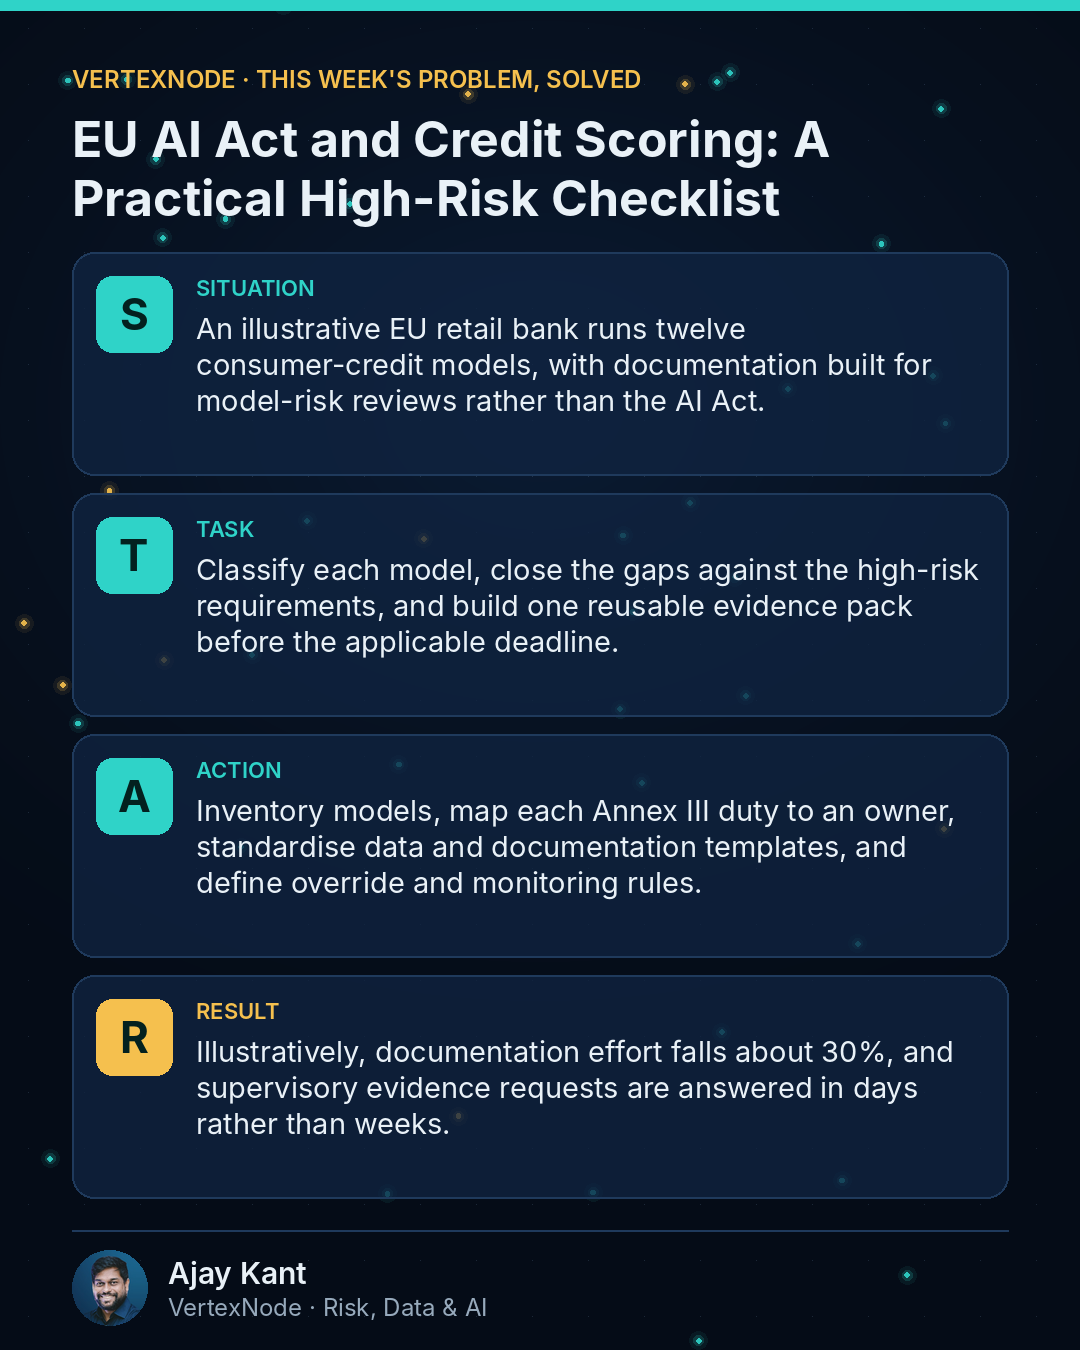
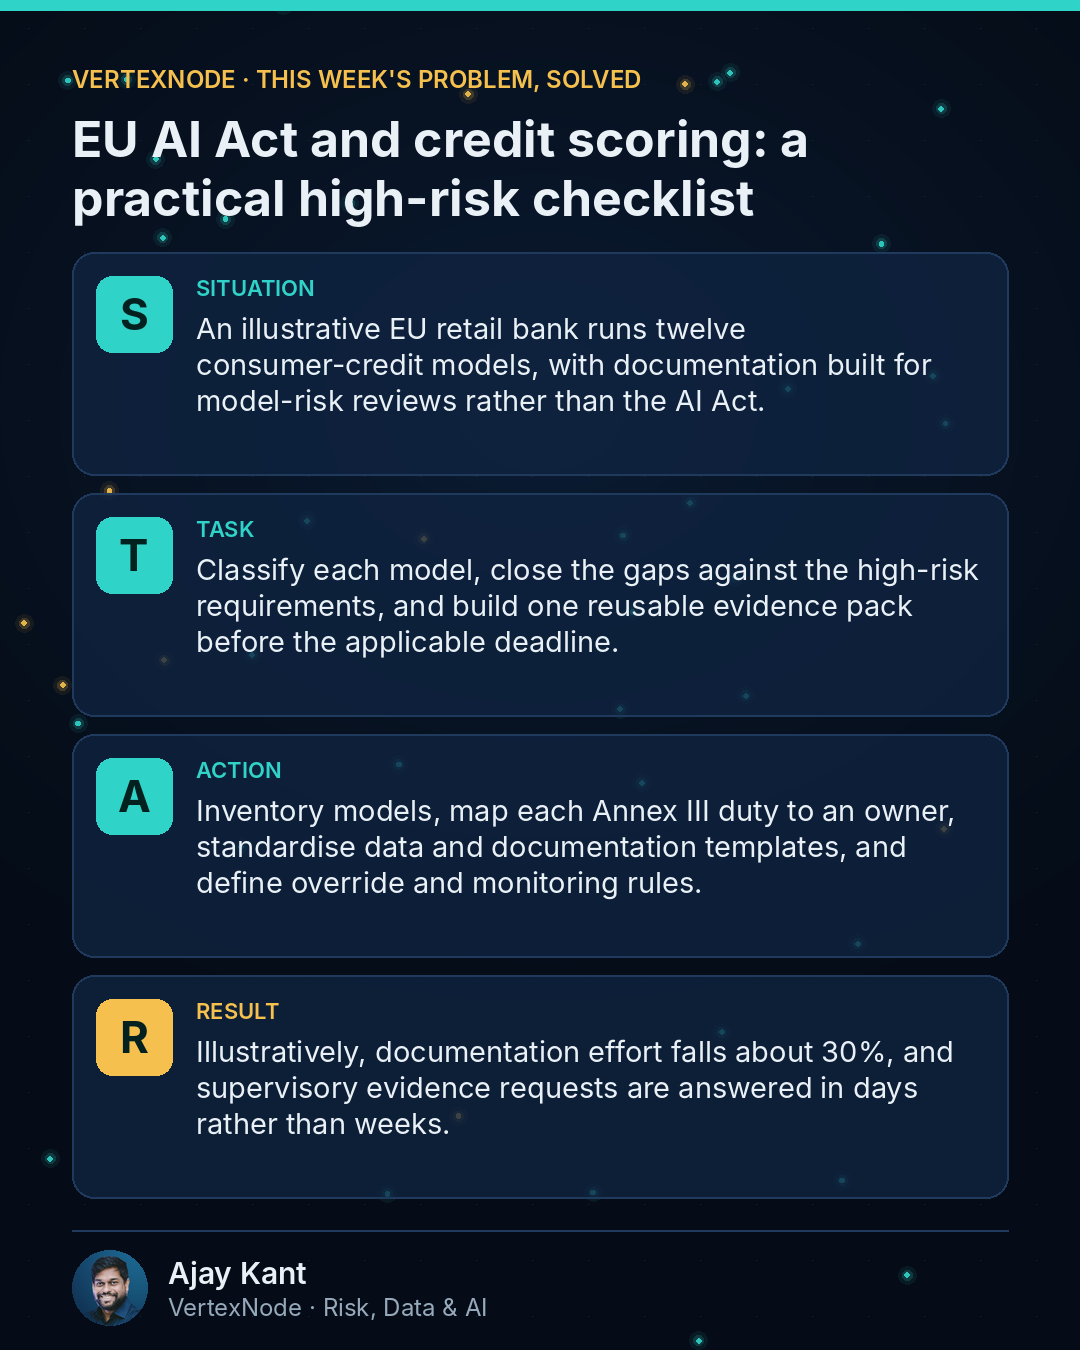
Publish 4 VertexNode articles (UK APP scams, EU AI Act, fraud model ROI, EU instant payments); LinkedIn on hold; writer agent uses sentence-case titles
Claude-Session: https://claude.ai/code/session_01PApz595udu2nZo8zVHWhG7

Changed region(s): [[0.2444, 0.0933, 0.7639, 0.1867], [0.1222, 0.1244, 0.1833, 0.1556], [0.0611, 0.1244, 0.0917, 0.1867]]

diff --git a/agents/writer_agent.py b/agents/writer_agent.py
@@ -44,7 +44,7 @@ ANONYMISED NOTES FROM THE AUTHOR (optional; use the ideas, never names or number
 
 Return ONLY a JSON object with exactly these keys:
 {{
-  "title": "headline, max 12 words",
+  "title": "headline in sentence case (capital only on the first word, proper nouns and acronyms), max 12 words",
   "category": "one of: Fraud Risk | Credit Risk | Automation | Data Analytics | GenAI | Team & Process",
   "summary": "2 sentences for the Weekly Updates page",
   "scenario": "who the illustrative STAR organisation is, e.g. 'a mid-sized Indian NBFC'",

diff --git a/content/articles/2026-11-01-ten-seconds-to-decide-fraud-controls-for-eu-instant-payments.md b/content/articles/2026-11-01-ten-seconds-to-decide-fraud-controls-for-eu-instant-payments.md
@@ -1,9 +1,9 @@
 ---
-title: 'Ten Seconds to Decide: Fraud Controls for EU Instant Payments'
+title: 'Ten seconds to decide: fraud controls for EU instant payments'
 slug: ten-seconds-to-decide-fraud-controls-for-eu-instant-payments
 date: '2026-11-01'
 category: Fraud Risk
-status: draft
+status: published
 test_run: false
 market: EU
 scenario: a composite mid-sized euro-area retail bank (illustrative, not a real institution)
@@ -88,22 +88,23 @@ myth_fact:
   explain: For instant payments the Regulation replaces per-transaction screening against EU targeted financial sanctions with verification of the bank's own customers at least daily, and after new listings.
 image: media/ten-seconds-to-decide-fraud-controls-for-eu-instant-payments/star-card.png
 factcheck:
-  status: needs-review
-  summary: '7 verified, 4 corrected · Needs review: PSD3/PSR formal adoption status: the Council published its first-reading texts on 21 October 2026 and adoption in the Official Journal was still pending in late October 2026. Re-check before publication and update the wording if the PSR is adopted.; Check whether a 2026 edition of the joint EBA/ECB payment fraud report has been published since the 15 December 2025 edition. I found no newer edition.; I could not open the operative text of Article 5a of Regulation (EU) 2024/886 in the search tool. The ten-second rule is confirmed by multiple secondary sources, including a Spanish consumer portal and legal summaries. A human should confirm the exact wording against EUR-Lex if citing the article number.; The STAR ''about a third'' fraud reduction and the ''fewer than 1% challenged'' figure are assumptions. Keep them labelled as illustrative.'
+  status: verified
+  summary: 'Agent fact-check plus human review on 1 Nov 2026: Instant Payments Regulation (EU) 2024/886 ten-second rule and the 9 January / 9 October 2025 dates confirmed; the EBA/ECB December 2025 report is the latest edition; PSR adoption is correctly described as pending. Benefit figures are a labelled illustrative model.'
+  agent_summary: '7 verified, 4 corrected · Needs review: PSD3/PSR formal adoption status: the Council published its first-reading texts on 21 October 2026 and adoption in the Official Journal was still pending in late October 2026. Re-check before publication and update the wording if the PSR is adopted.; Check whether a 2026 edition of the joint EBA/ECB payment fraud report has been published since the 15 December 2025 edition. I found no newer edition.; I could not open the operative text of Article 5a of Regulation (EU) 2024/886 in the search tool. The ten-second rule is confirmed by multiple secondary sources, including a Spanish consumer portal and legal summaries. A human should confirm the exact wording against EUR-Lex if citing the article number.; The STAR ''about a third'' fraud reduction and the ''fewer than 1% challenged'' figure are assumptions. Keep them labelled as illustrative.'
 sources:
 - title: EUR-Lex, Regulation (EU) 2024/886 (Instant Payments Regulation)
   url: https://eur-lex.europa.eu/eli/reg/2024/886/oj
 - title: European Central Bank, Instant Payments Regulation
   url: https://www.ecb.europa.eu/paym/retail/instant_payments/html/instant_payments_regulation.en.html
-- title: Central Bank of Cyprus, Application of Instant Payments Regulation
+- title: Central Bank of Cyprus, Application of the Instant Payments Regulation
   url: https://www.centralbank.cy/en/announcements/application-of-instant-payments-regulation-eu-2024-886-10-12-2024
-- title: European Payments Council, Verification Of Payee Scheme Rulebook
+- title: European Payments Council, Verification of Payee scheme rulebook
   url: https://www.europeanpaymentscouncil.eu/document-library/rulebooks/verification-payee-scheme-rulebook
-- title: ECB/EBA press release, Joint EBA-ECB report on payment fraud, 15 Dec 2025
+- title: EBA and ECB, joint report on payment fraud (December 2025)
   url: https://www.bde.es/f/webbe/GAP/Secciones/SalaPrensa/ComunicadosBCE/NotasInformativasBCE/25/presbce2025-151en.pdf
-- title: EUR-Lex, Regulation (EU) 2022/2554 (DORA), Article 64
+- title: EUR-Lex, Regulation (EU) 2022/2554 (DORA)
   url: https://eur-lex.europa.eu/eli/reg/2022/2554/oj
-- title: 'Norton Rose Fulbright, PSD3 and PSR: provisional agreement to 2026'
+- title: Norton Rose Fulbright, PSD3 and PSR, from provisional agreement to 2026
   url: https://www.nortonrosefulbright.com/en/knowledge/publications/cedd39c6/psd3-and-psr-from-provisional-agreement-to-2026-readiness
 linkedin_post: 'Ten seconds. That is how long a euro-area bank now has to make an instant payment available to the payee, and it is roughly how long my laptop needs to decide it urgently needs an update.
 
@@ -126,6 +127,7 @@ linkedin_post: 'Ten seconds. That is how long a euro-area bank now has to make a
 
   How does your team measure the cost of a challenge today: in euros, or in gut feel?'
 linkedin_shared: false
+linkedin_hold: true
 ---
 
 ## The problem

diff --git a/content/articles/2026-11-01-fraud-model-roi-look-past-the-detection-rate.md b/content/articles/2026-11-01-fraud-model-roi-look-past-the-detection-rate.md
@@ -3,7 +3,7 @@ title: 'Fraud model ROI: look past the detection rate'
 slug: fraud-model-roi-look-past-the-detection-rate
 date: '2026-11-01'
 category: Fraud Risk
-status: draft
+status: published
 test_run: false
 market: Global
 scenario: a mid-sized multi-country retail bank (a composite, not a real institution)
@@ -88,22 +88,21 @@ myth_fact:
   explain: It is a survey-based estimate for the 42 markets surveyed, not audited bank-reported losses, so it indicates scale rather than a ledger of fraud.
 image: media/fraud-model-roi-look-past-the-detection-rate/star-card.png
 factcheck:
-  status: needs-review
-  summary: '4 corrected, 3 verified · Needs review: GASA appears to have run a 2026 global survey (58,900 respondents, 42 markets), and regional 2026 reports (US, Europe, Asia, Brazil, Spain) have been published. I could not find the 2026 global headline figures (share of adults scammed, total losses). Before publishing, check gasa.org for a Global State of Scams 2026 release and update the 57% and USD 442 billion figures and the year if it is out.; GASA''s 2025 report also gives a broader ''encountered a scam'' measure of about seven in ten adults. The article uses the narrower ''experienced a scam'' figure of 57%, which matches GASA''s headline wording. The full report is member-only, so I checked the figures through GASA''s press release and homepage and not the full PDF.; The scenario inputs (USD 30/hour analyst cost, USD 12 friction cost, 6 minutes per alert, USD 40k run cost, alert volumes) are invented assumptions and are labelled illustrative. They are not benchmarked against any
-    external source.'
+  status: verified
+  summary: 'Agent fact-check plus human review on 1 Nov 2026: GASA Global State of Scams 2025 figures (57% of adults, about USD 442 billion) confirmed as the latest global edition; only regional 2026 editions exist so far. All bank figures are a labelled illustrative model.'
+  agent_summary: '4 corrected, 3 verified · Needs review: GASA appears to have run a 2026 global survey (58,900 respondents, 42 markets), and regional 2026 reports (US, Europe, Asia, Brazil, Spain) have been published. I could not find the 2026 global headline figures (share of adults scammed, total losses). Before publishing, check gasa.org for a Global State of Scams 2026 release and update the 57% and USD 442 billion figures and the year if it is out.; GASA''s 2025 report also gives a broader ''encountered a scam'' measure of about seven in ten adults. The article uses the narrower ''experienced a scam'' figure of 57%, which matches GASA''s headline wording. The full report is member-only, so I checked the figures through GASA''s press release and homepage and not the full PDF.; The scenario inputs (USD 30/hour analyst cost, USD 12 friction cost, 6 minutes per alert, USD 40k run cost, alert volumes) are invented assumptions and are labelled illustrative. They are not benchmarked against
+    any external source.'
 sources:
-- title: GASA, Global State of Scams 2025 press release (Oct 2025)
+- title: GASA, Global State of Scams 2025
   url: https://gasa.org/knowledge-base/blog/global-scams-on-the-rise-over-half-of-adults-worldwide-report-scam-encounters
-- title: GASA, Global State of Scams Report 2024 press release
+- title: GASA, Global State of Scams 2024
   url: https://gasa.org/knowledge-base/blog/global-state-of-scams-report-2024-1-trillion-stolen-in-12-months-gasa-feedzai
-- title: GASA, Global Anti-Scam Alliance Policy Agenda 2026
+- title: GASA, Policy Agenda 2026
   url: https://gasa.org/knowledge-base/blog/gasa-policy-agenda-2026
-- title: GASA, State of Scams Brazil 2025 release (methodology note)
+- title: GASA, State of Scams in Brazil 2025 (methodology)
   url: https://gasa.org/knowledge-base/blog/new-report-reveals-brazilians-face-252-scam-encounters-annually-despite-high-confidence-in-spotting
-- title: scikit-learn, sklearn.metrics.recall_score documentation
+- title: scikit-learn, recall_score documentation
   url: https://scikit-learn.org/stable/modules/generated/sklearn.metrics.recall_score.html
-- title: Internal arithmetic check (illustrative model, no external source)
-  url: https://gasa.org/
 linkedin_post: 'Your fraud model catches 95% of fraud. Great. What did it cost to get there?
 
 
@@ -131,6 +130,7 @@ linkedin_post: 'Your fraud model catches 95% of fraud. Great. What did it cost t
 
   Which cost is hardest to measure in your world: customer friction, analyst time or something else?'
 linkedin_shared: false
+linkedin_hold: true
 ---
 
 ## The problem

diff --git a/content/articles/2026-11-01-eu-ai-act-and-credit-scoring-a-practical-high-risk-checklist.md b/content/articles/2026-11-01-eu-ai-act-and-credit-scoring-a-practical-high-risk-checklist.md
@@ -3,7 +3,7 @@ title: 'EU AI Act and credit scoring: a practical high-risk checklist'
 slug: eu-ai-act-and-credit-scoring-a-practical-high-risk-checklist
 date: '2026-11-01'
 category: Credit Risk
-status: draft
+status: published
 test_run: false
 market: EU
 scenario: a mid-sized EU retail bank with a consumer-lending book (an illustrative composite, not a real institution)

diff --git a/content/articles/2026-11-01-app-scam-reimbursement-where-uk-banks-should-now-put.md b/content/articles/2026-11-01-app-scam-reimbursement-where-uk-banks-should-now-put.md
@@ -3,7 +3,7 @@ title: 'APP scam reimbursement: where UK banks should now put detection money'
 slug: app-scam-reimbursement-where-uk-banks-should-now-put
 date: '2026-11-01'
 category: Fraud Risk
-status: draft
+status: published
 test_run: false
 market: UK
 scenario: a mid-sized UK retail bank (an illustrative composite, not a real institution)
